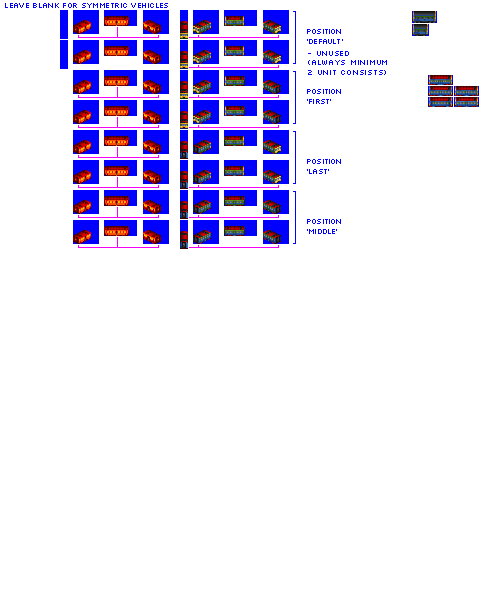
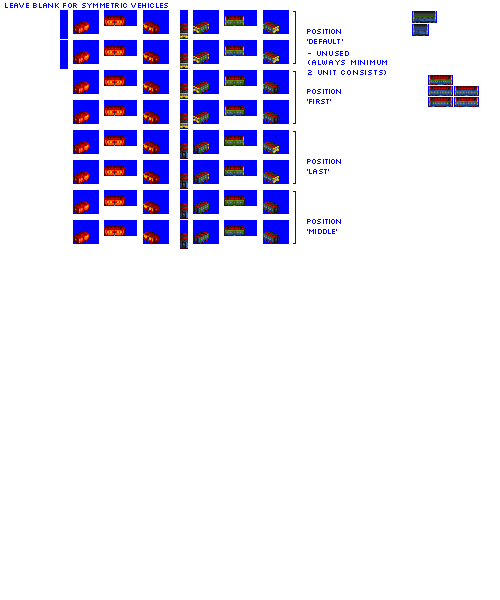
Change: sprites complete for Mumble

diff --git a/src/vehicles/mumble.py b/src/vehicles/mumble.py
@@ -15,7 +15,7 @@ def main(roster_id):
         gen=3,
         extended_vehicle_life=True,  # extended vehicle life for all this generation of NG eh
         pax_car_capacity_type="railbus_combine", # specific to combined mail + pax consist
-        sprites_complete=False,
+        sprites_complete=True,
     )
 
     consist.add_unit(
